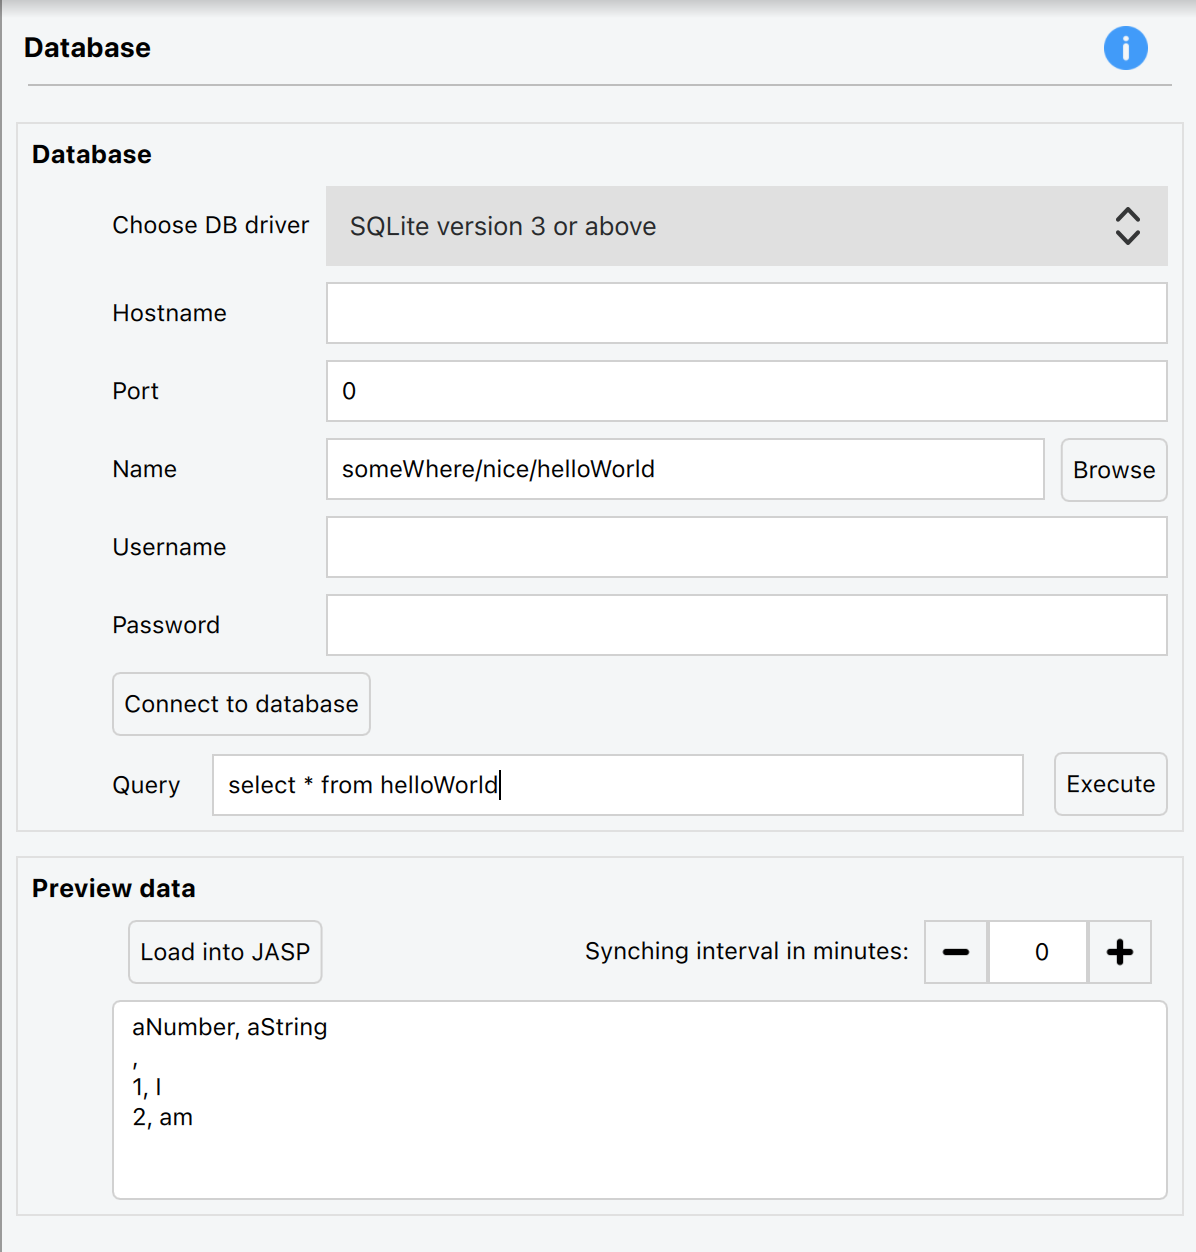
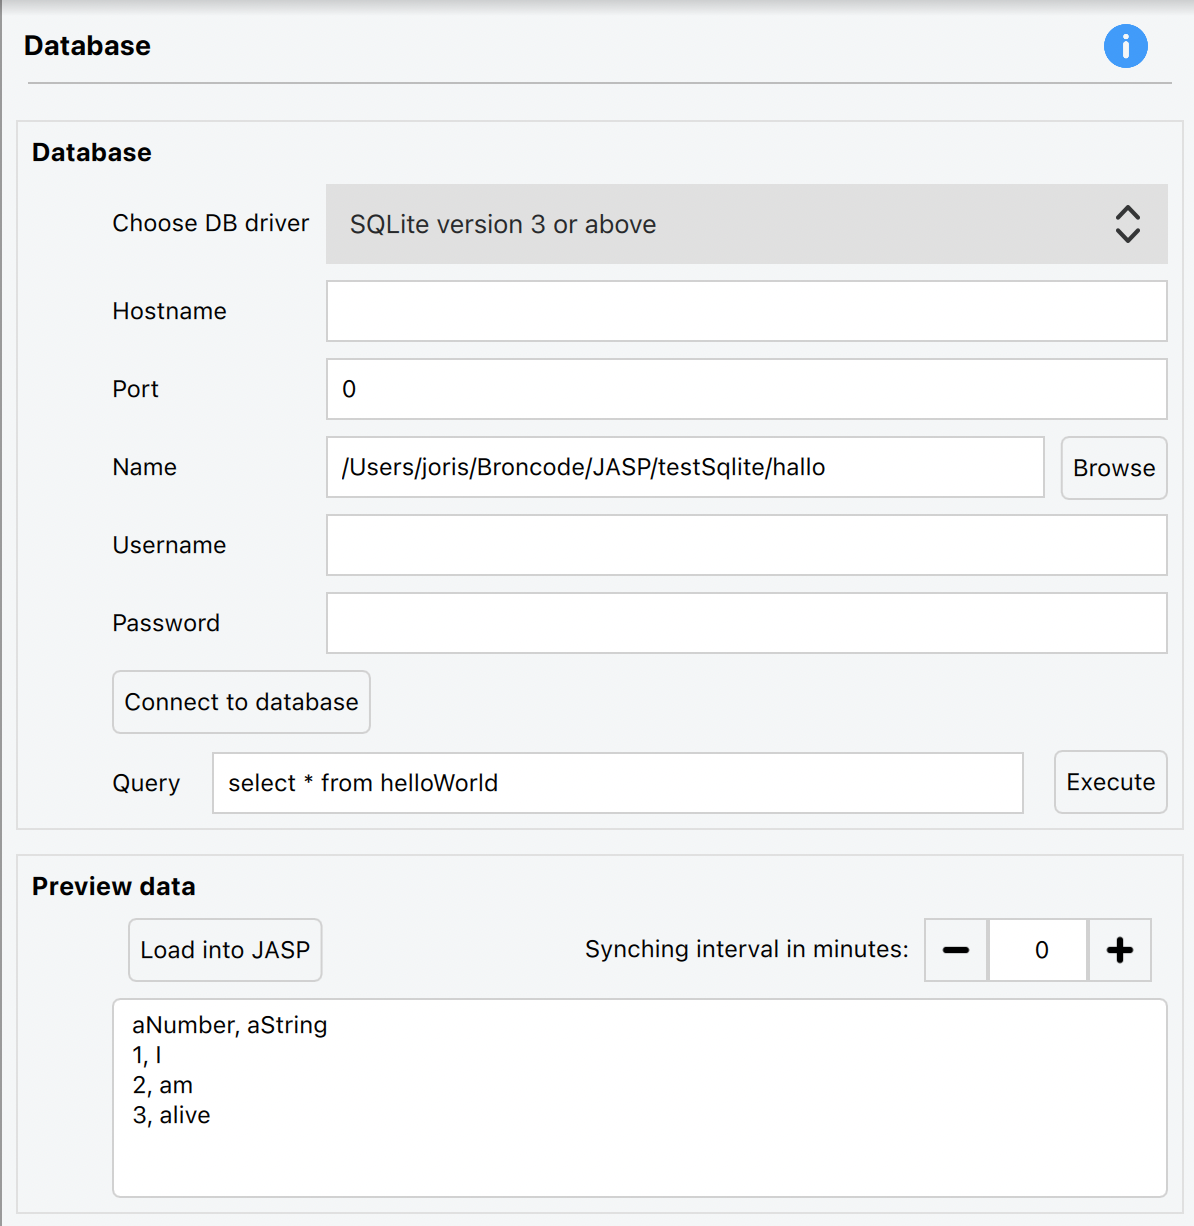
apparently sqlite first returns an empty record

diff --git a/Desktop/data/importers/databaseimporter.cpp b/Desktop/data/importers/databaseimporter.cpp
@@ -27,6 +27,9 @@ ImportDataSet * DatabaseImporter::loadFile(const std::string &locator, boost::fu
 	QSqlRecord  record	= query.record();
 	
 	ImportDataSet * data = new ImportDataSet(this);
+
+	if(_info._dbType == DbType::QSQLITE)
+		query.next(); //skip first empy line
 	
 	for(int i=0; i<record.count(); i++)
 		data->addColumn(new DatabaseImportColumn(data, fq(record.fieldName(i)), record.field(i).metaType()));

diff --git a/Desktop/widgets/filemenu/database.cpp b/Desktop/widgets/filemenu/database.cpp
@@ -101,6 +101,9 @@ QString	Database::_runQuery()
 			fewLines.push_back(names.join(", "));
 		}
 		
+		if(_info._dbType == DbType::QSQLITE)
+			query.next(); //skip first empy line
+
 		do
 		{
 			QStringList values;
